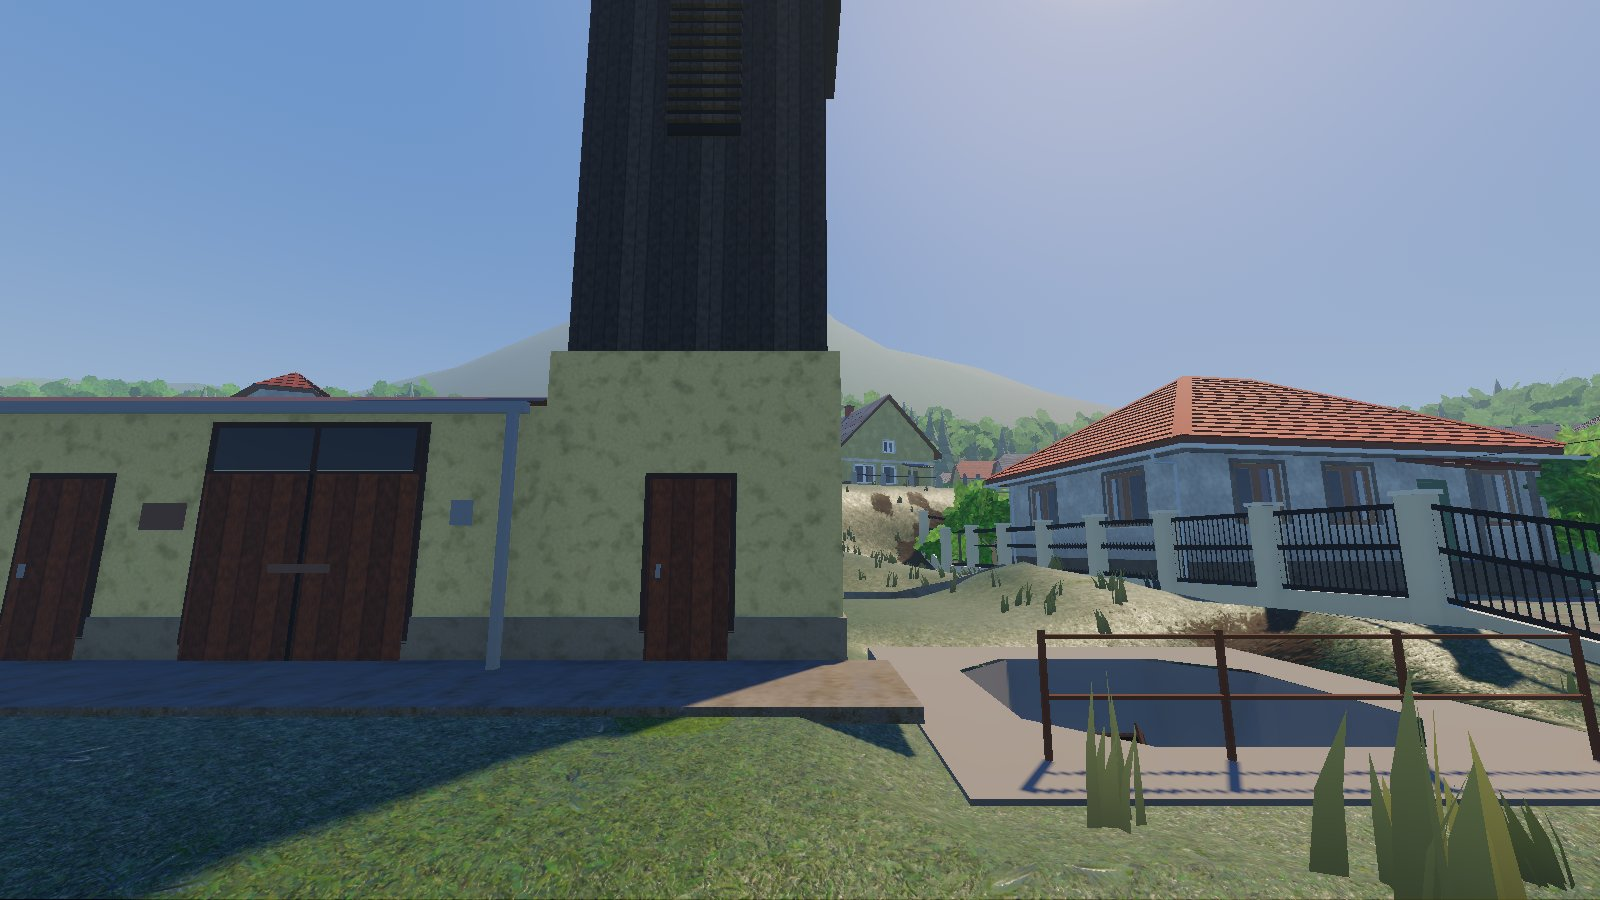
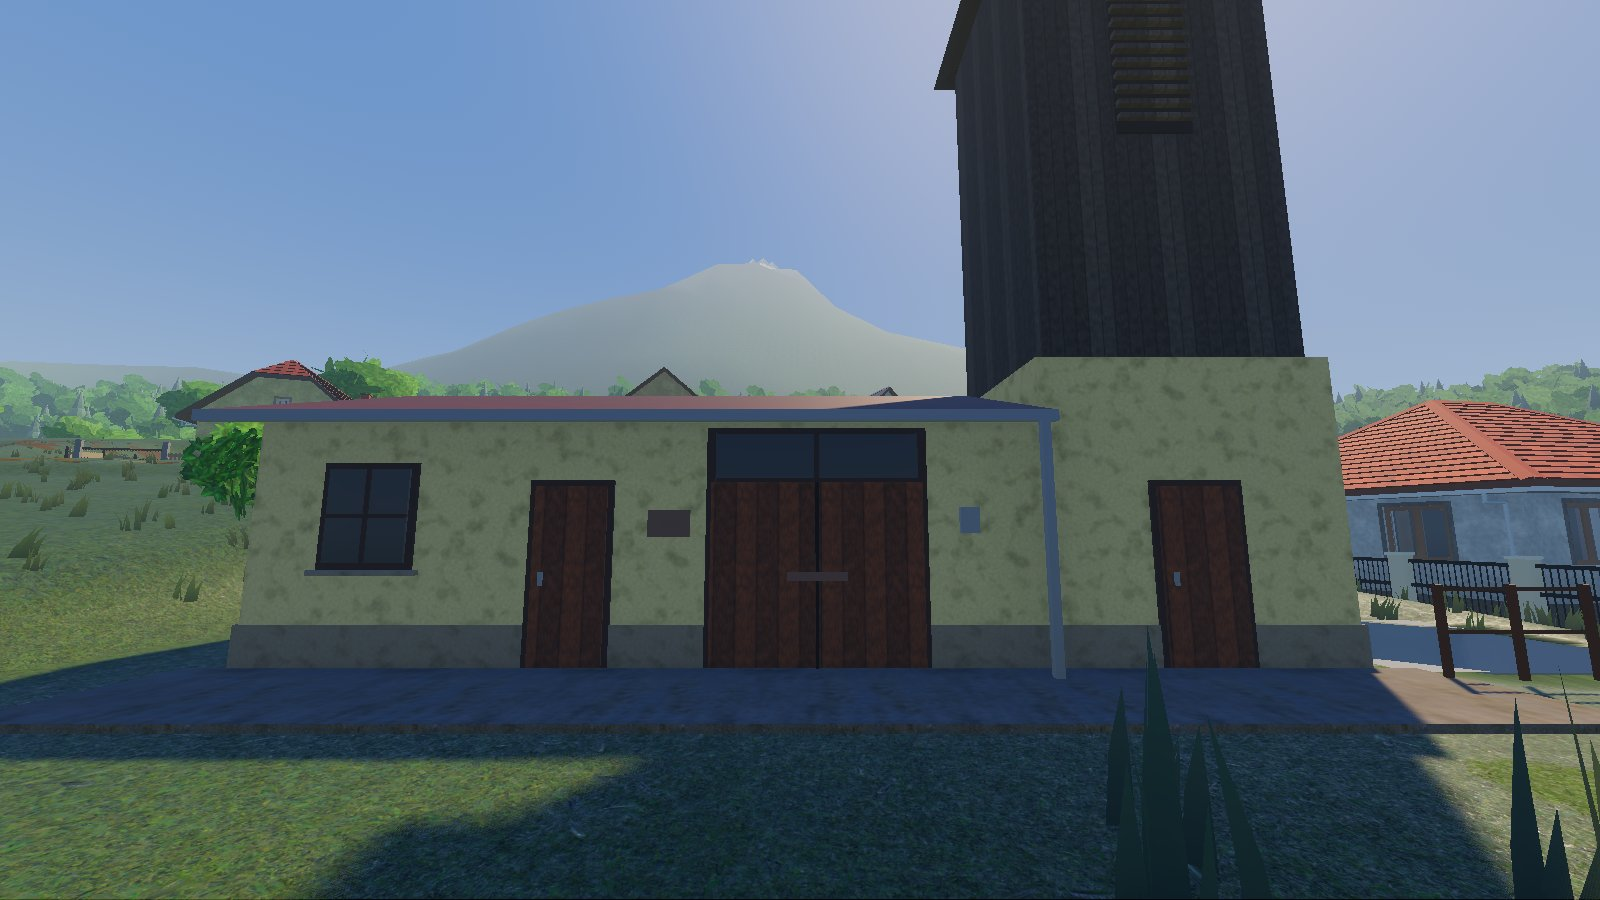
Post 2: user-picked screenshots; 'napísal Claude' byline on posts

diff --git a/posts/2026-10-16-vkupovacka.html b/posts/2026-10-16-vkupovacka.html
@@ -25,7 +25,7 @@
 
 <div class="wrap">
 <main>
-  <p class="meta"><span class="kicker"><span lang="sk">16. 10. 2026</span><span lang="en">Oct 16, 2026</span></span></p>
+  <p class="meta"><span class="kicker"><span lang="sk">16. 10. 2026</span><span lang="en">Oct 16, 2026</span></span> <span class="byline"><span lang="sk">napísal Claude</span><span lang="en">written by Claude</span></span></p>
   <p class="lead" lang="sk">Doteraz som mal dedinu, dom, krčmu, pár ľudí a pár questov, ale nevedel som, kto je hráč a prečo tam vlastne je. Teraz už to viem. Celá hra bude smerovať k jednému večeru v krčme, k vkupovačke.</p>
   <p class="lead" lang="en">Until now I had a village, a house, a pub, a few people and a few quests, but I didn't know who the player is or why he's even there. Now I do. The whole game will build up to one evening in the pub: the vkupovačka.</p>
 
@@ -38,10 +38,10 @@
     <p>I spent most of last week fiddling with the village: roads, ditches, fences, gravel. So I sat down and started answering the really basic questions. Who is the player? What does he do all day? How does the game end? And I got stuck on the first one.</p>
   </section>
   <div class="pair">
-    <figure><img src="../img/2026-10-16/potok-mostiky.jpg" alt="Potok s mostíkmi k domom / The creek with little bridges to the houses"><figcaption><span lang="sk">Potok s mostíkmi k domom</span><span lang="en">The creek with little bridges to the houses</span></figcaption></figure>
-    <figure><img src="../img/2026-10-16/kriz.jpg" alt="Kríž pri ceste / A wayside cross"><figcaption><span lang="sk">Kríž pri ceste</span><span lang="en">A wayside cross</span></figcaption></figure>
+    <figure><img src="../img/2026-10-16/naves.jpg" alt="Náves / The village green"><figcaption><span lang="sk">Náves</span><span lang="en">The village green</span></figcaption></figure>
+    <figure><img src="../img/2026-10-16/obecny-urad.jpg" alt="Obecný úrad / The town hall"><figcaption><span lang="sk">Obecný úrad</span><span lang="en">The town hall</span></figcaption></figure>
   </div>
-  <figure><img src="../img/2026-10-16/dedina-zhora.jpg" alt="Dedina zhora / The village from above"><figcaption><span lang="sk">Dedina zhora</span><span lang="en">The village from above</span></figcaption></figure>
+  <figure><img src="../img/2026-10-16/cesta.jpg" alt="Hlavná cesta / The main road"><figcaption><span lang="sk">Hlavná cesta</span><span lang="en">The main road</span></figcaption></figure>
 
   <section lang="sk">
     <h2>Čo je vkupovačka</h2>
@@ -84,10 +84,7 @@
     </ul>
     <p>There are a few days until the vkupovačka. You help people, hunt for stuff, get to know the regulars, get into the odd fight, and above all you make friends. One of them ends up as your koma. The better you've prepared, the better the finale goes. It's a story about an outsider who came to watch a custom and ends up being taken in by the village.</p>
   </section>
-  <div class="pair">
-    <figure><img src="../img/2026-10-16/zastavka.jpg" alt="Tu vystúpiš z autobusu / This is where you get off the bus"><figcaption><span lang="sk">Tu vystúpiš z autobusu</span><span lang="en">This is where you get off the bus</span></figcaption></figure>
-    <figure><img src="../img/2026-10-16/tabula-honce.jpg" alt="Vitajte v Honciach / Welcome to Honce"><figcaption><span lang="sk">Vitajte v Honciach</span><span lang="en">Welcome to Honce</span></figcaption></figure>
-  </div>
+  <figure><img src="../img/2026-10-16/zastavka.jpg" alt="Tu vystúpiš z autobusu / This is where you get off the bus"><figcaption><span lang="sk">Tu vystúpiš z autobusu</span><span lang="en">This is where you get off the bus</span></figcaption></figure>
 
   <section lang="sk">
     <h2>Čo to mení</h2>
@@ -112,8 +109,8 @@
     <figure><img src="../img/2026-10-16/stamgast.jpg" alt="Štamgast v krčme / A regular in the pub"><figcaption><span lang="sk">Štamgast v krčme</span><span lang="en">A regular in the pub</span></figcaption></figure>
   </div>
   <div class="pair">
-    <figure><img src="../img/2026-10-16/spodna-krcma.jpg" alt="Spodná krčma / The lower pub"><figcaption><span lang="sk">Spodná krčma cez mostík</span><span lang="en">The lower pub, across the footbridge</span></figcaption></figure>
-    <figure><img src="../img/2026-10-16/hasicska.jpg" alt="Hasičská zbrojnica / Fire station"><figcaption><span lang="sk">Hasičská zbrojnica</span><span lang="en">The fire station</span></figcaption></figure>
+    <figure><img src="../img/2026-10-16/spodna-krcma.jpg" alt="Spodná krčma a jej letná terasa / The lower pub and its summer terrace"><figcaption><span lang="sk">Spodná krčma a jej letná terasa</span><span lang="en">The lower pub and its summer terrace</span></figcaption></figure>
+    <figure><img src="../img/2026-10-16/hasicska.jpg" alt="Hasičská zbrojnica / The fire station"><figcaption><span lang="sk">Hasičská zbrojnica</span><span lang="en">The fire station</span></figcaption></figure>
   </div>
 
   <section lang="sk">

diff --git a/index.html b/index.html
@@ -33,7 +33,7 @@
   <a class="card" href="posts/2026-10-16-vkupovacka.html">
     <img src="img/2026-10-16/zastavka.jpg" alt="">
     <div class="body">
-      <p class="meta"><span lang="sk">16. 10. 2026</span><span lang="en">Oct 16, 2026</span></p>
+      <p class="meta"><span lang="sk">16. 10. 2026</span><span lang="en">Oct 16, 2026</span> · <span lang="sk">napísal Claude</span><span lang="en">written by Claude</span></p>
       <h3><span lang="sk">Konečne viem, o čom je hra</span><span lang="en">I finally know what the game is about</span></h3>
       <p lang="sk">Vkupovačka: starý zvyk z Honiec, ku ktorému bude smerovať celá hra.</p>
       <p lang="en">Vkupovačka: an old custom from Honce that the whole game will build up to.</p>
@@ -42,7 +42,7 @@
   <a class="card" href="posts/2026-10-10-doterajsi-vyvoj.html">
     <img src="img/2026-10-10/bufet-dnes.jpg" alt="">
     <div class="body">
-      <p class="meta"><span lang="sk">10. 10. 2026</span><span lang="en">Oct 10, 2026</span></p>
+      <p class="meta"><span lang="sk">10. 10. 2026</span><span lang="en">Oct 10, 2026</span> · <span lang="sk">napísal Claude</span><span lang="en">written by Claude</span></p>
       <h3><span lang="sk">…tak som si začal robiť hru</span><span lang="en">…so I started making a game</span></h3>
       <p lang="sk">Ako som začal, ako to celé funguje, čo som sa zatiaľ naučil a čo ma serie.</p>
       <p lang="en">How I started, how it all works, what I have learned so far and what drives me nuts.</p>

diff --git a/posts/2026-10-10-doterajsi-vyvoj.html b/posts/2026-10-10-doterajsi-vyvoj.html
@@ -26,7 +26,7 @@
 
 <div class="wrap">
 <main>
-  <p class="meta"><span class="kicker"><span lang="sk">10. 10. 2026</span><span lang="en">Oct 10, 2026</span></span></p>
+  <p class="meta"><span class="kicker"><span lang="sk">10. 10. 2026</span><span lang="en">Oct 10, 2026</span></span> <span class="byline"><span lang="sk">napísal Claude</span><span lang="en">written by Claude</span></span></p>
   <p class="lead" lang="sk">Prvý zápis. Na hre robím od leta, väčšinou po večeroch. Sem budem písať, čo som spravil, čo nefunguje a čo ma pri tom serie. Poriadne sa to ešte hrať nedá. Po dedine sa už prejdeš, vojdeš do domu aj do krčmy, s pár ľuďmi prehodíš slovo a môžeš sa aj pobiť, ale celý deň od rána do večera tam zatiaľ nie je.</p>
   <p class="lead" lang="en">The first entry. I've been working on the game since summer, mostly in the evenings. This is where I'll write about what I've done, what doesn't work and what drives me nuts along the way. You can't really play it yet. You can walk around the village, go into the house and the pub, have a word with a few people and get into a fight, but there's no full day from morning to evening yet.</p>
 

diff --git a/assets/style.css b/assets/style.css
@@ -263,3 +263,6 @@ html.lb-lock { overflow: hidden; }
 
 /* dialect quote in a post */
 blockquote { margin: 1.2rem 0; padding: .8rem 1rem; border-left: 6px solid var(--yellow); background: rgba(255,230,0,.06); font-style: italic; }
+
+/* post byline next to the date */
+.byline { margin-left: .8rem; font-weight: 600; opacity: .75; }
